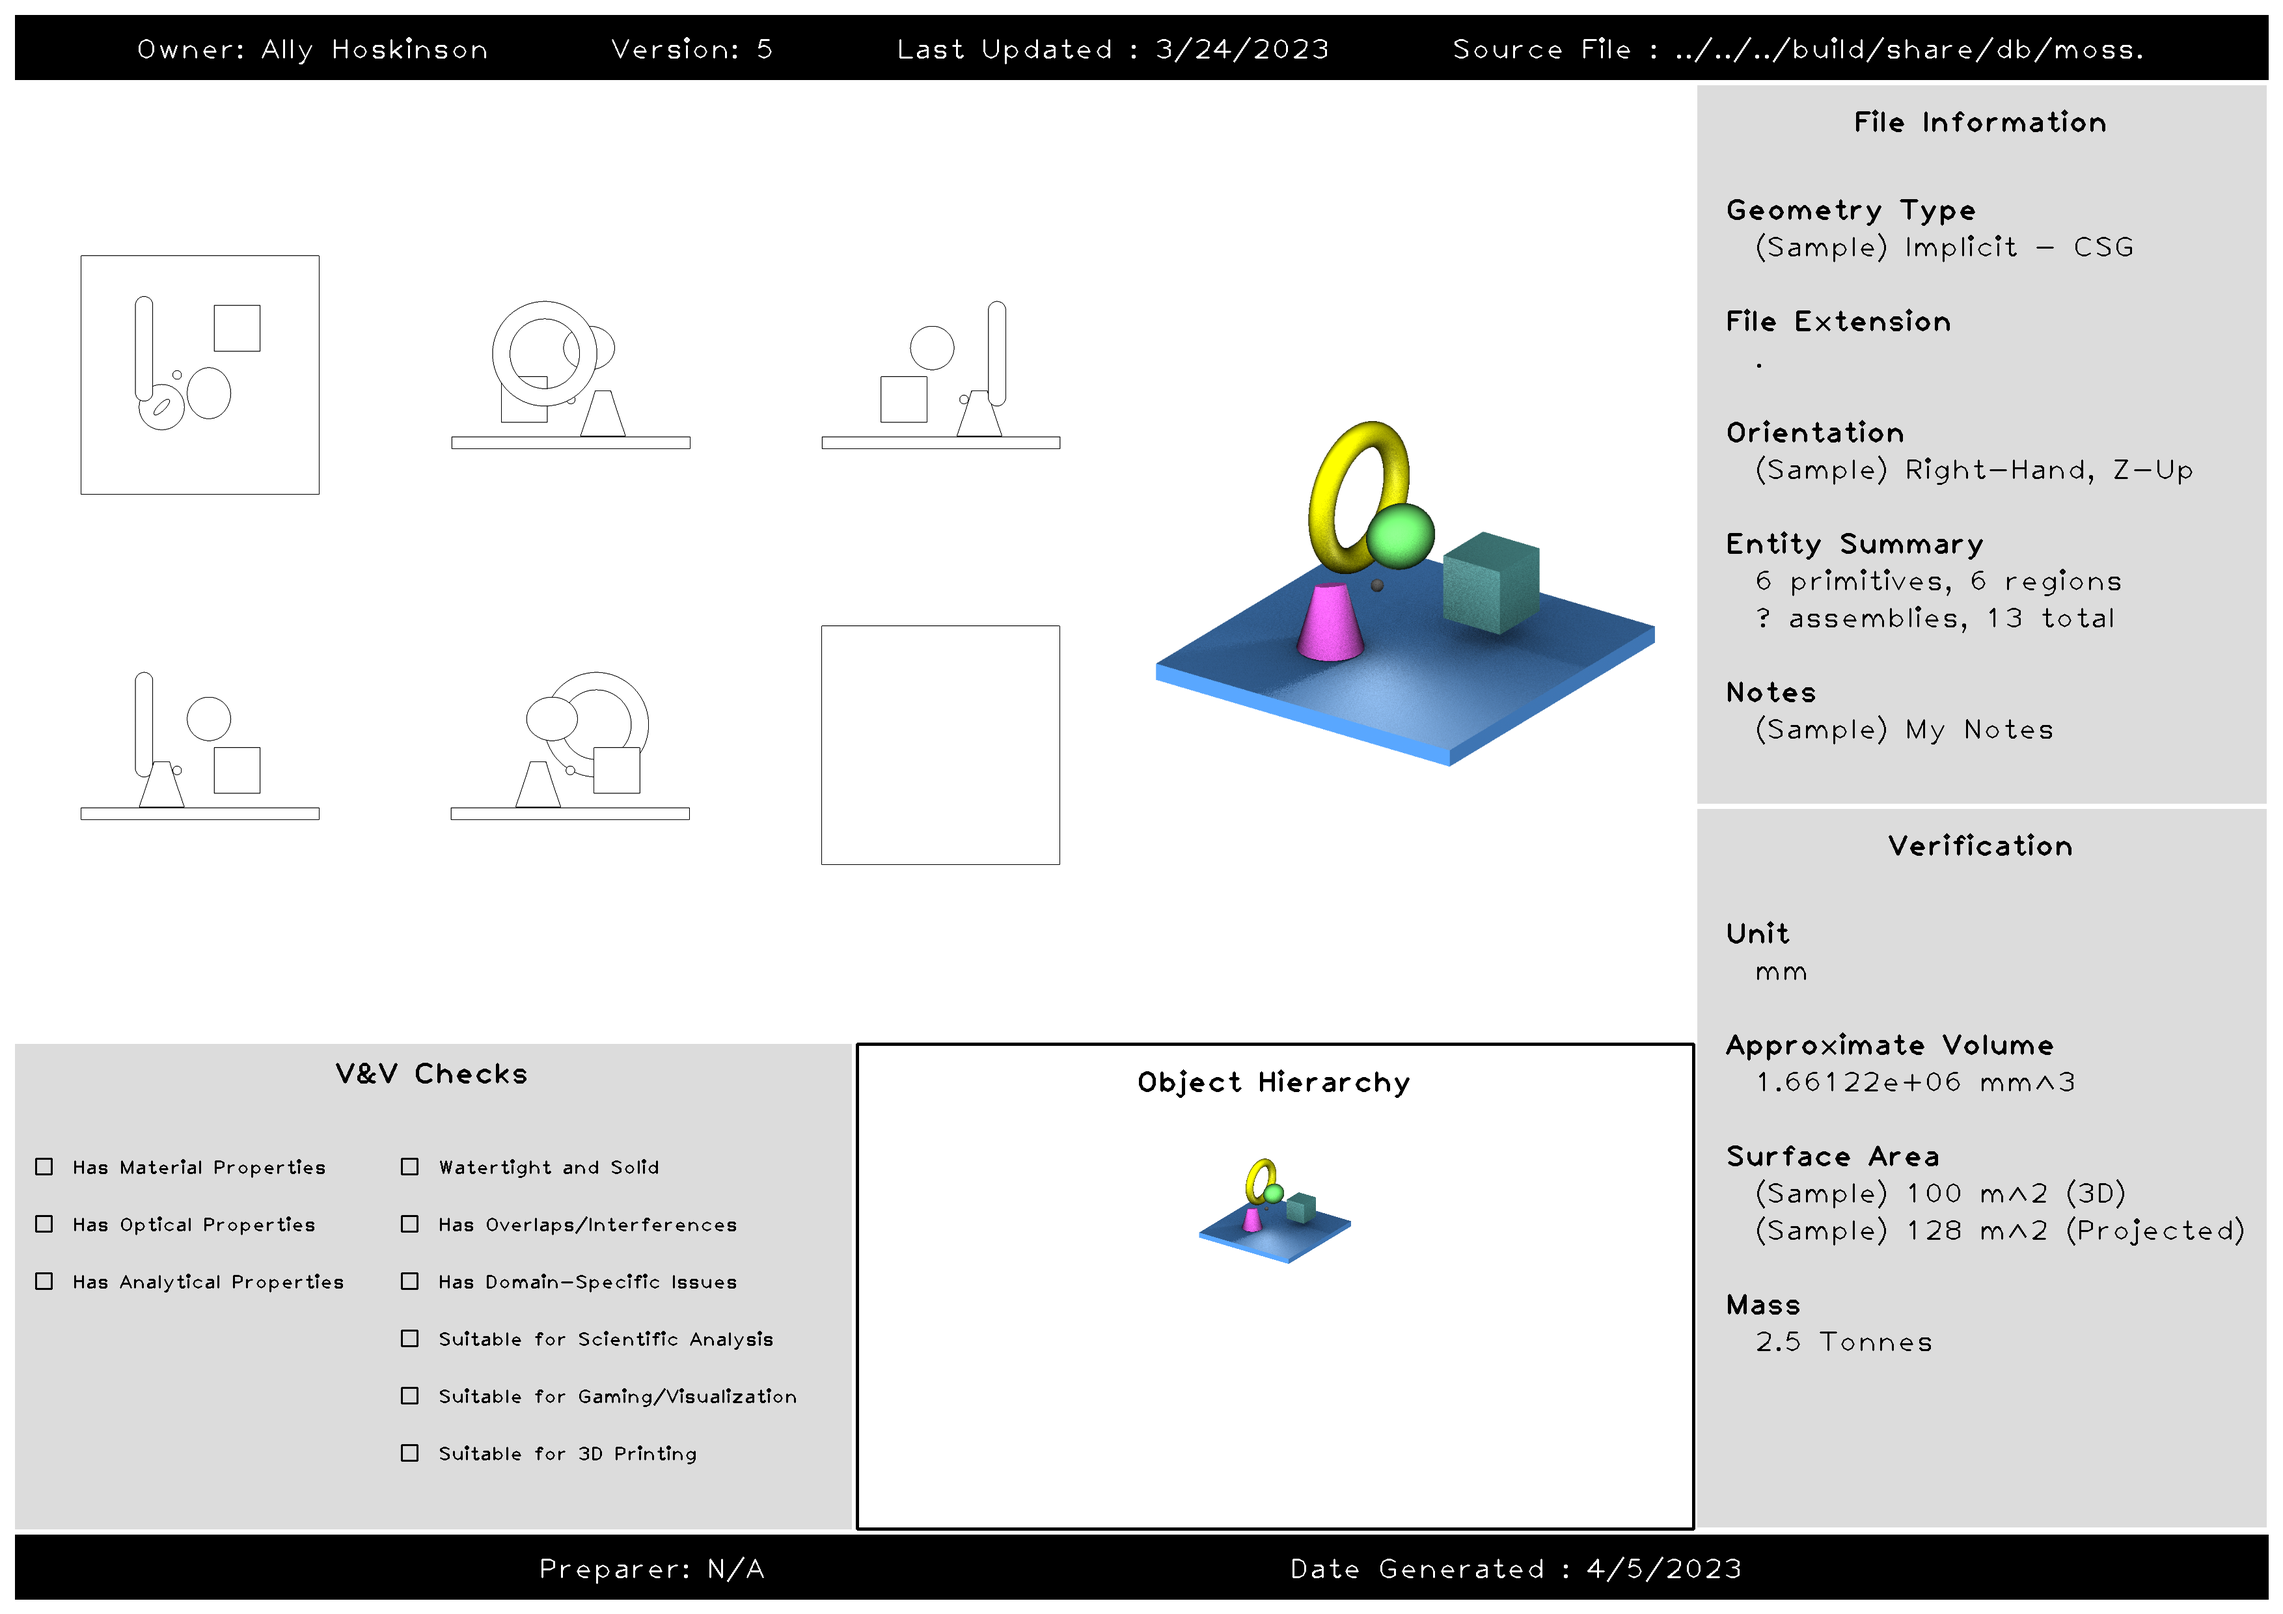
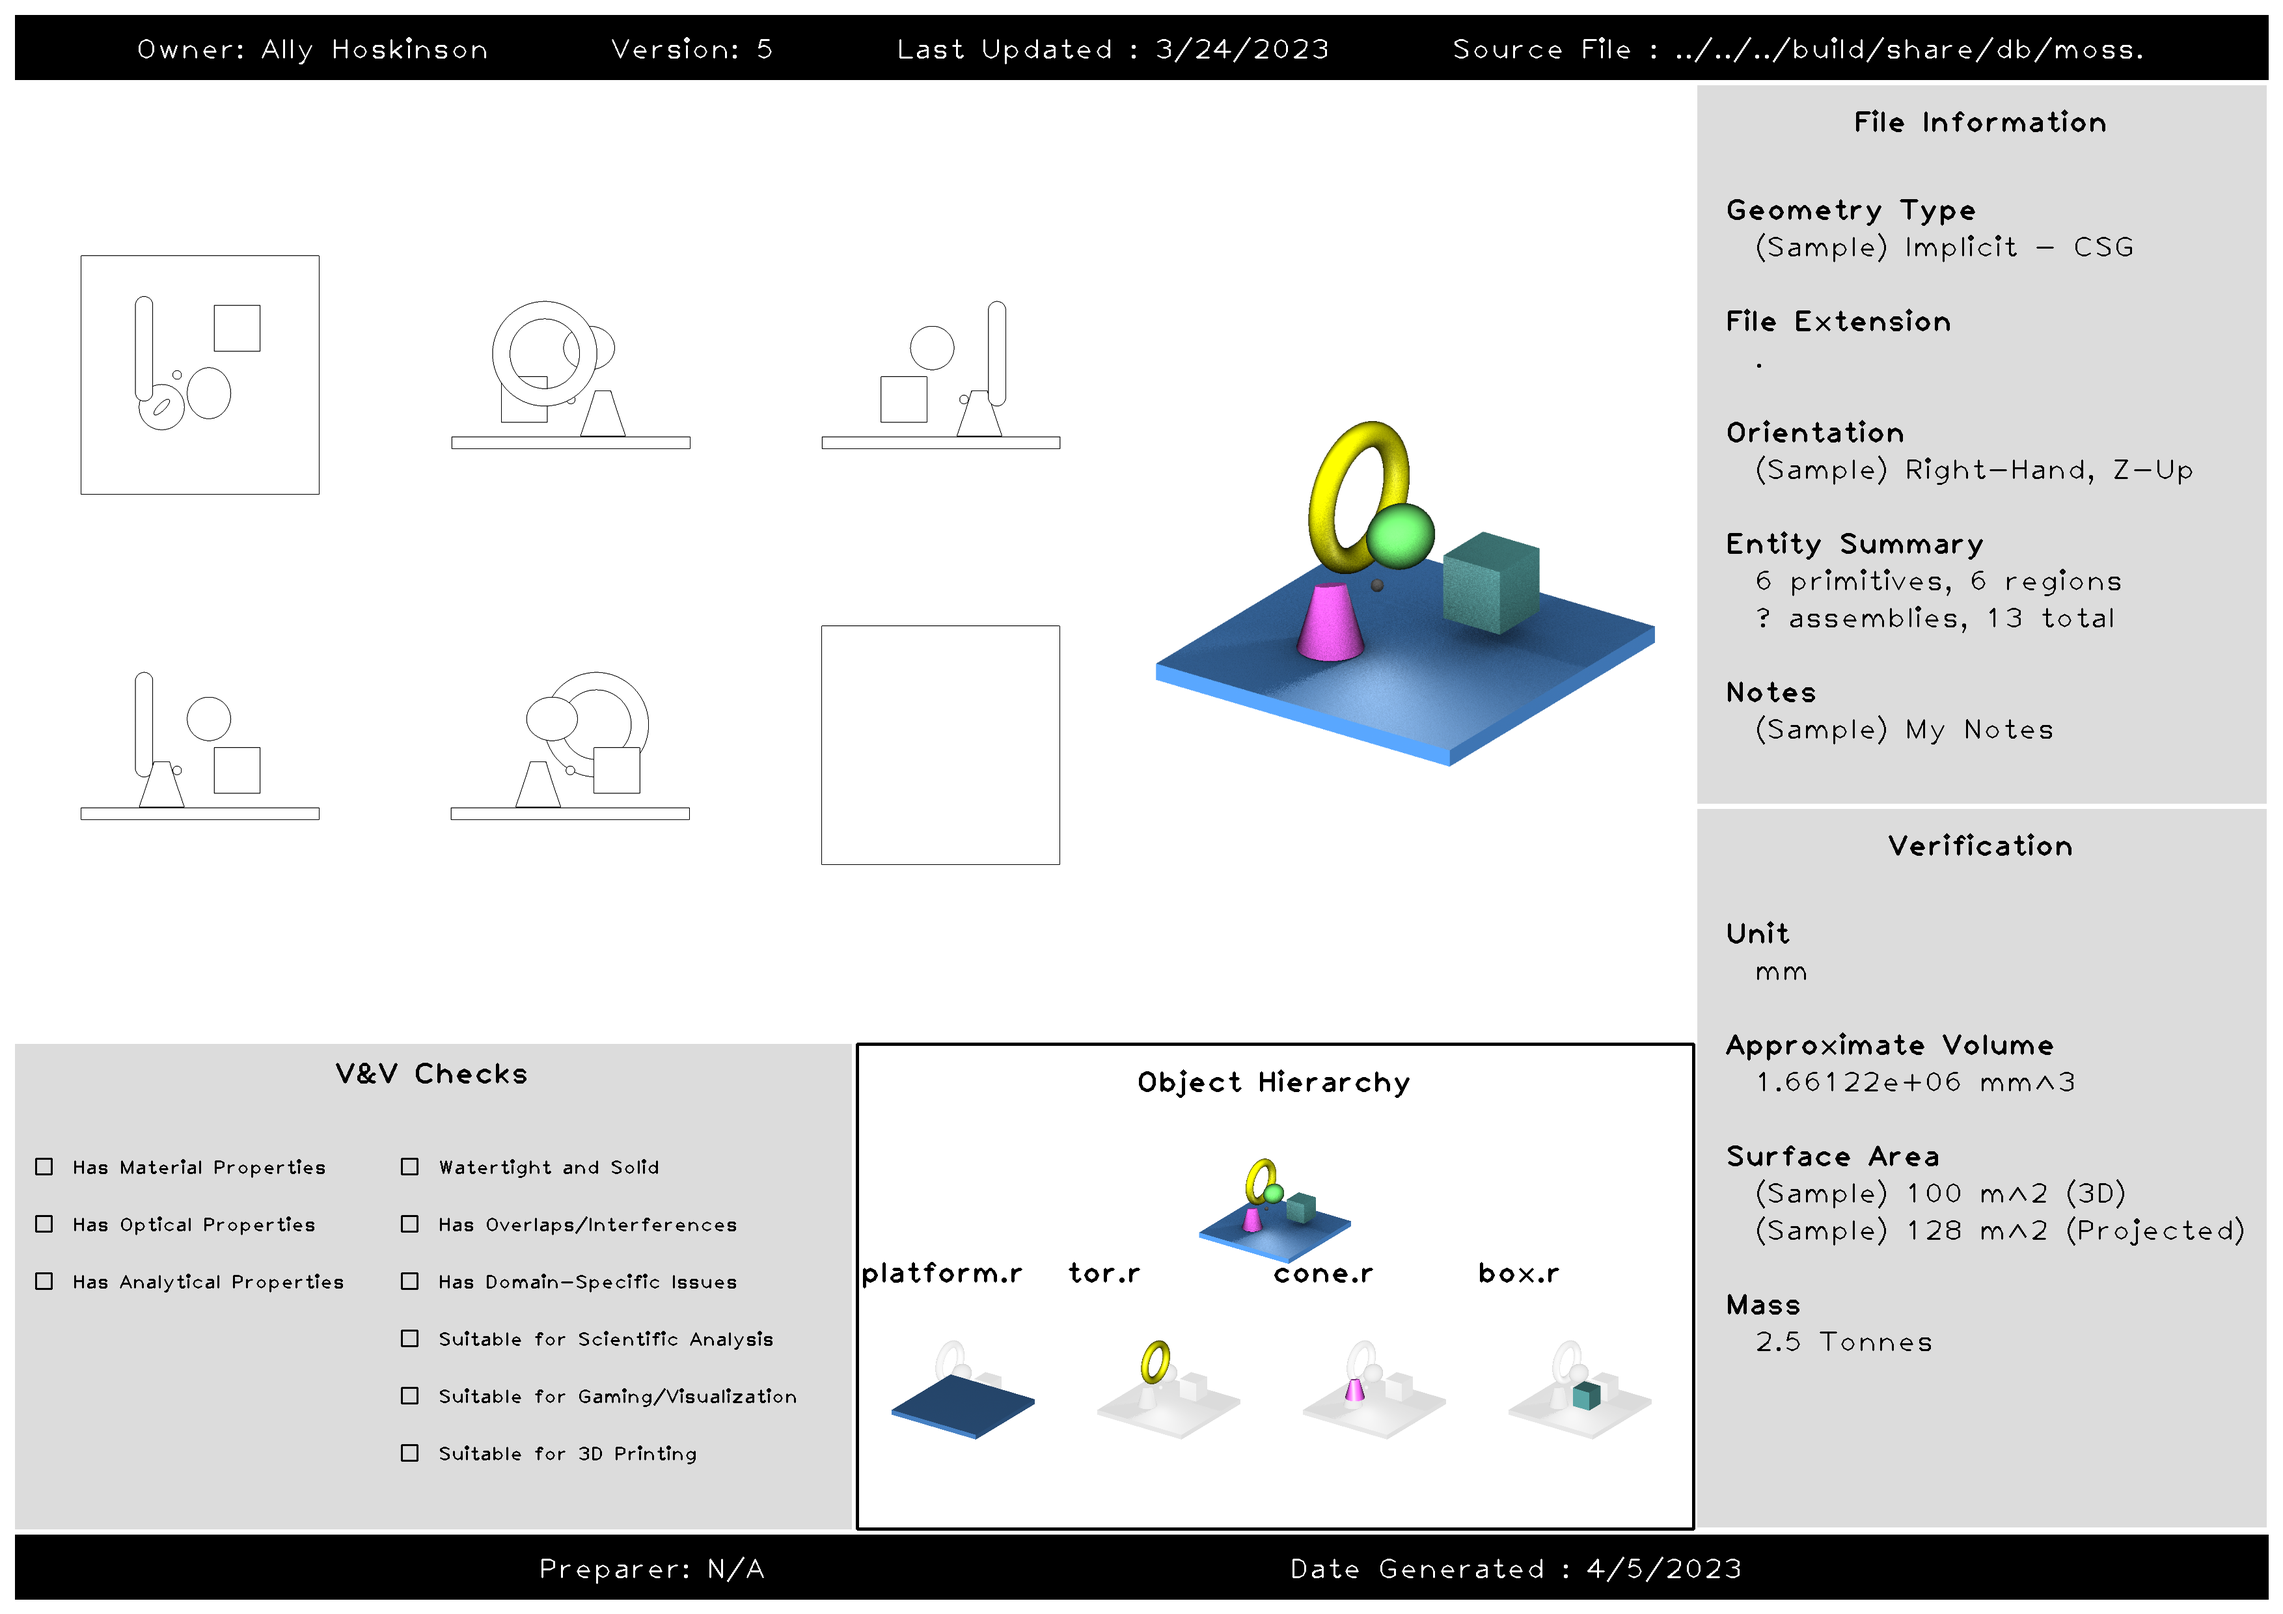
modified hierarchy heuristic

diff --git a/InformationGatherer.cpp b/InformationGatherer.cpp
@@ -34,8 +34,11 @@ int InformationGatherer::getNumEntities(std::string filePath, std::string compon
     return entities;
 }
 
-std::vector<ComponentData> InformationGatherer::getTops(std::string filePath) {
+std::vector<ComponentData> InformationGatherer::getTops(std::string filePath, bool extra) {
     const char* cmd[8] = { "search",  ".",  "-type", "comb", "-not", "-type", "region", NULL };
+    if (extra)
+        cmd[4] = NULL;
+
     ged_exec(g, 7, cmd);
     std::stringstream ss(bu_vls_addr(g->ged_result_str));
     std::string val;
@@ -45,6 +48,7 @@ std::vector<ComponentData> InformationGatherer::getTops(std::string filePath) {
         double volume = getVolume(filePath, val);
         allComps.push_back({entities, volume, val});
     }
+
     return allComps;
 
     // struct ged* g = ged_open("db", filePath.c_str(), 1);
@@ -72,6 +76,7 @@ std::vector<ComponentData> InformationGatherer::lsComp(std::string filePath, std
         val = val.substr(val.find(' ')+1); // extract out u
         comps.push_back({getNumEntities(filePath, val), getVolume(filePath, val), val});
     }
+
     return comps;
 }
 
@@ -143,7 +148,10 @@ bool InformationGatherer::gatherInformation(std::string filePath, std::string na
     // We can stop as soon as final list of components size == num parts interested (e.g. 5) or total parts
     // final list is guaranteed to be sorted by volume
 
-    std::vector<ComponentData> topComponents = getTops(filePath);
+    std::vector<ComponentData> topComponents = getTops(filePath, false);
+    if (topComponents.size() < 5) {
+        topComponents = getTops(filePath, true);
+    }
     sort(topComponents.rbegin(), topComponents.rend());
     // std::priority_queue<ComponentData> pq;
     // // run tops command, push all children to pq
@@ -190,10 +198,10 @@ bool InformationGatherer::gatherInformation(std::string filePath, std::string na
 
 
     // Gather dimensions
-	  cmd[0] = "bb";
-	  cmd[1] = largestComponents[0].name.c_str();
-	  cmd[2] = NULL;
-	  ged_exec(g, 2, cmd);
+	cmd[0] = "bb";
+	cmd[1] = largestComponents[0].name.c_str();
+	cmd[2] = NULL;
+	ged_exec(g, 2, cmd);
 
     std::stringstream ss(bu_vls_addr(g->ged_result_str));
     std::string token;

diff --git a/InformationGatherer.h b/InformationGatherer.h
@@ -33,7 +33,7 @@ private:
 	std::map<std::string, std::string> infoMap;
     double getVolume(std::string filePath, std::string component);
     int getNumEntities(std::string filePath, std::string component);
-    std::vector<ComponentData> getTops(std::string filePath);
+    std::vector<ComponentData> getTops(std::string filePath, bool extra);
     std::vector<ComponentData> lsComp(std::string filePath, std::string component);
 
 
